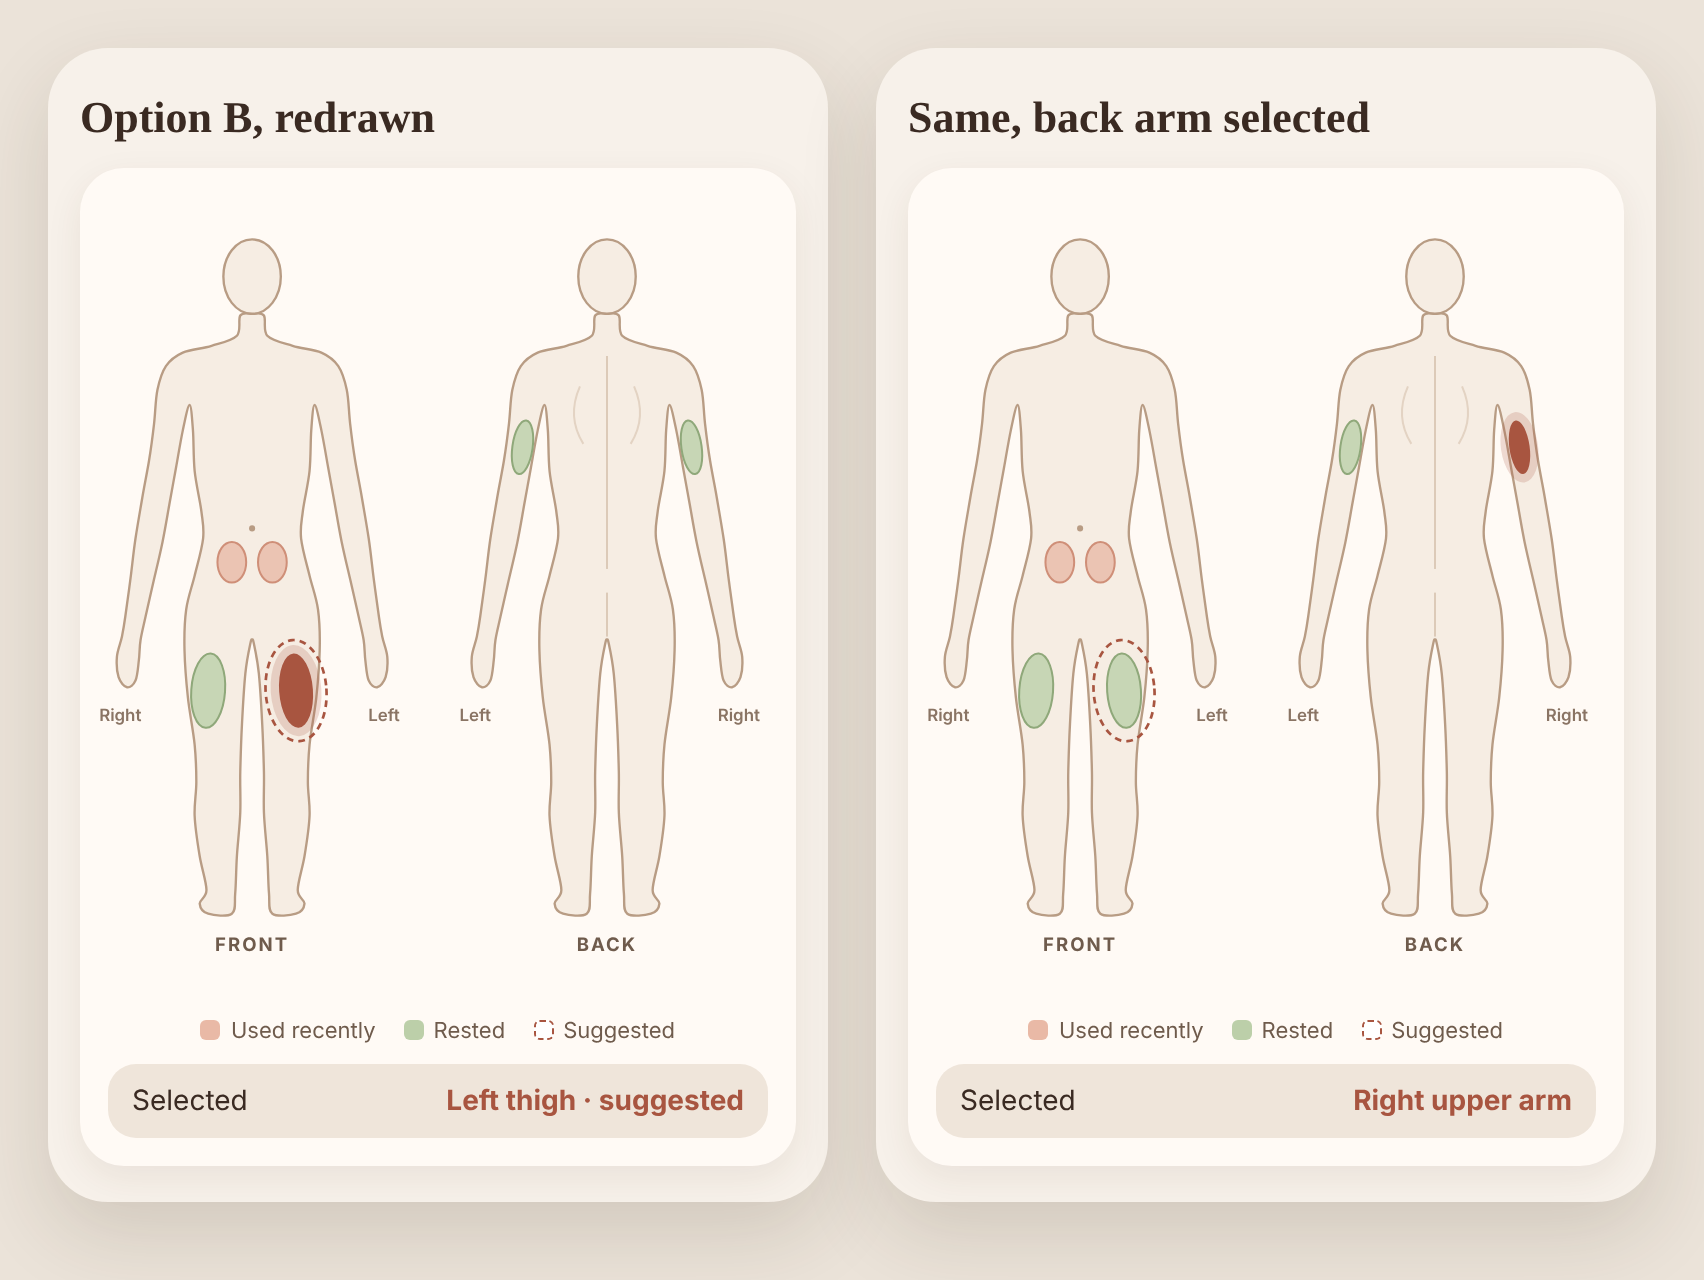
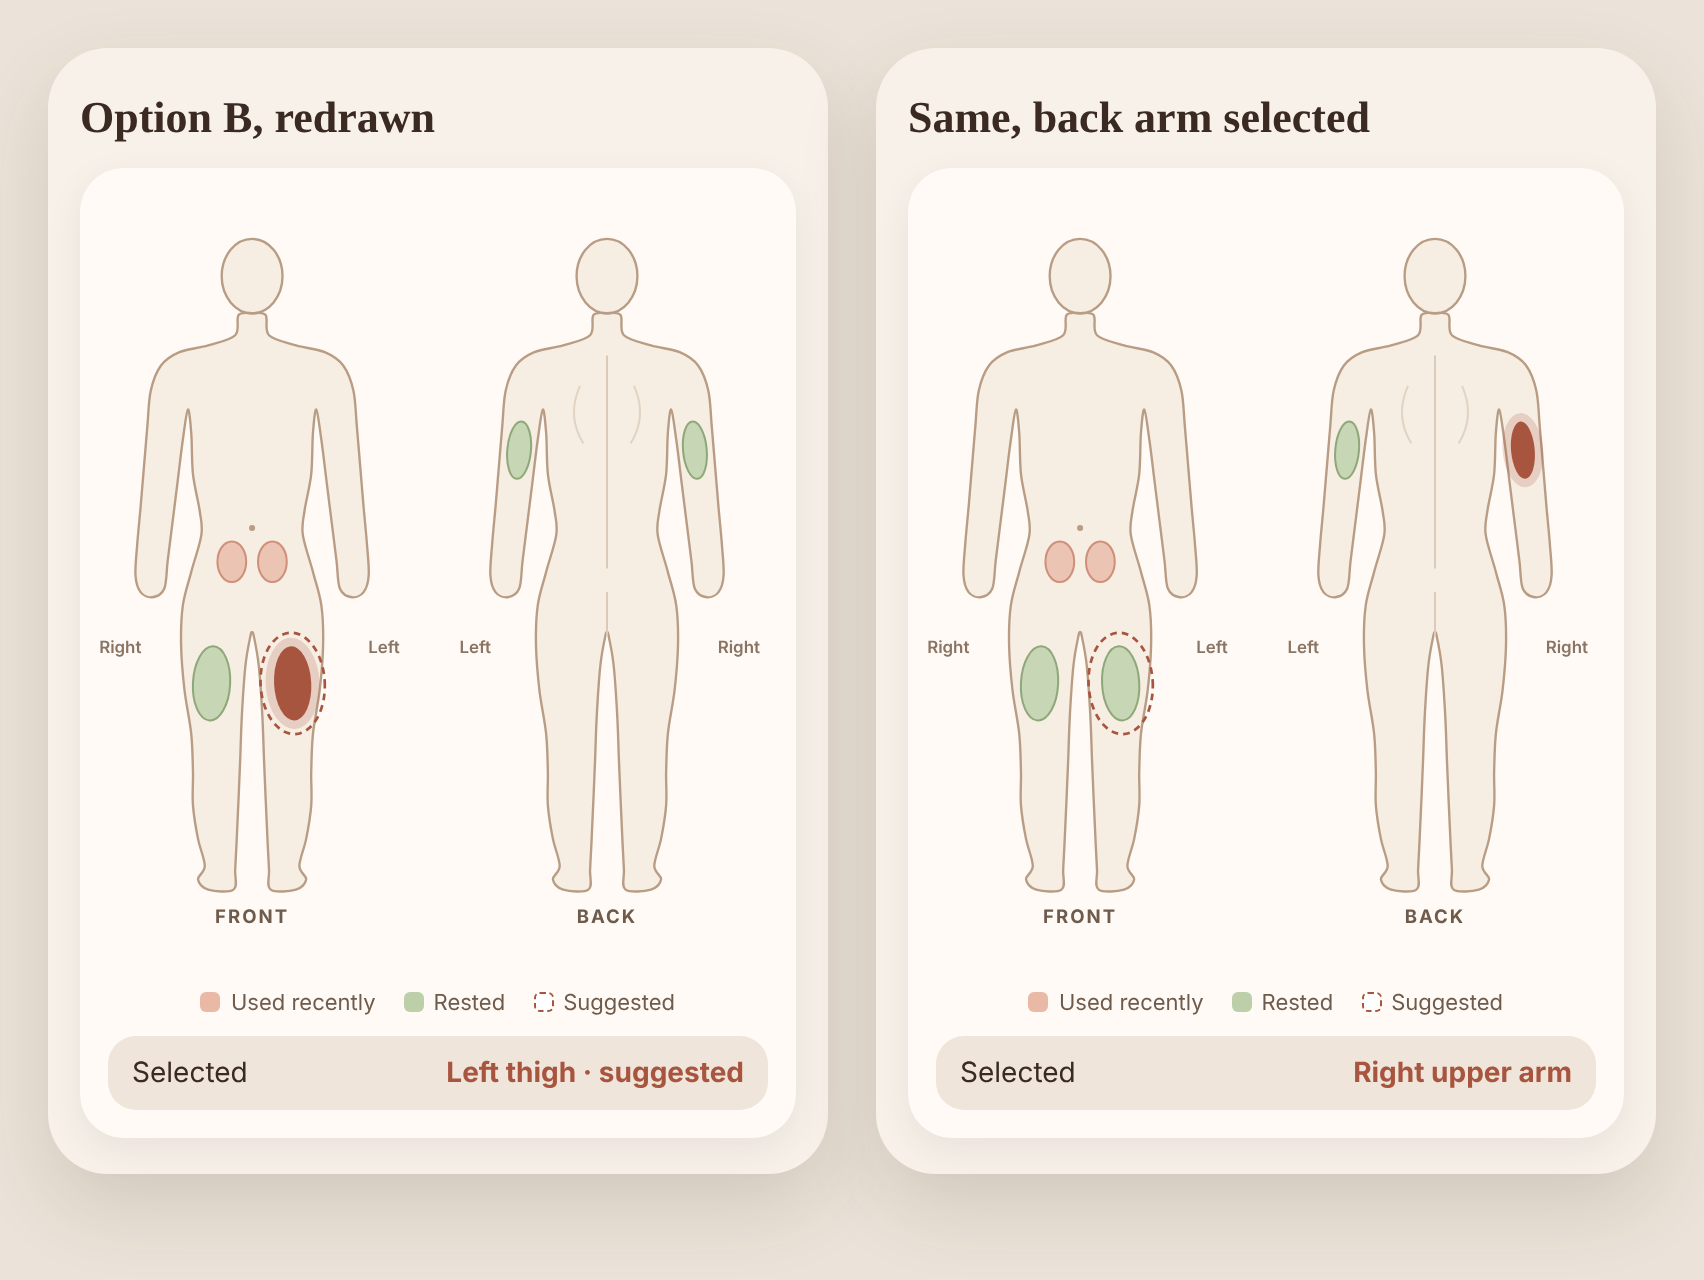
Body map mockup: remove wrists and hands, sturdier figure
Claude-Session: https://claude.ai/code/session_01E8m8svjFKtLT3zDarJmxVH

diff --git a/docs/mockups/02b-body-map-option-b-v2.html b/docs/mockups/02b-body-map-option-b-v2.html
@@ -16,7 +16,7 @@ h3{font-family:var(--head);font-size:22px;margin:4px 0 12px;font-weight:600}
  <div class="sel">Selected <b>Right upper arm</b></div></div></div>
 <script>
 // Right half of the figure (viewer's right), from the neck clockwise; 8-head proportions, arms slightly out (A-pose).
-const R=[[100,49],[107,50],[109,62],[124,68],[141,72],[151,80],[156,94],[158,114],[161,136],[165,158],[169,182],[172,206],[175,228],[177,240],[180,252],[179,264],[174,270],[169,266],[167,254],[166,242],[163,228],[158,206],[153,184],[149,162],[145,140],[141,118],[137,103],[135,118],[134,142],[130,166],[129,182],[134,204],[139,224],[140,248],[138,276],[134,304],[133,326],[134,346],[131,370],[127,390],[131,398],[126,404],[112,404],[110,392],[109,370],[107,344],[107,320],[106,292],[104,262],[101,244],[100,242]];
+const R=[[100,49],[108,50],[110,62],[126,68],[143,72],[154,80],[160,95],[162,116],[164,140],[166,164],[168,186],[169,204],[166,214],[159,217],[152,212],[150,196],[147,172],[144,148],[141,124],[138,106],[136,120],[135,144],[131,166],[130,180],[136,202],[141,222],[142,246],[140,272],[136,298],[135,320],[135,340],[132,360],[128,376],[132,384],[126,390],[111,390],[110,378],[109,358],[108,336],[107,312],[106,286],[104,258],[101,240],[100,238]];
 const OUT=[...R,...R.slice(1,-1).reverse().map(([x,y])=>[200-x,y])];
 function smooth(p){const n=p.length;let d=`M${p[0][0]},${p[0][1]}`;for(let i=0;i<n;i++){const a=p[(i-1+n)%n],b=p[i],c=p[(i+1)%n],e=p[(i+2)%n];d+=` C${(b[0]+(c[0]-a[0])/6).toFixed(1)},${(b[1]+(c[1]-a[1])/6).toFixed(1)} ${(c[0]-(e[0]-b[0])/6).toFixed(1)},${(c[1]-(e[1]-b[1])/6).toFixed(1)} ${c[0]},${c[1]}`}return d+'Z'}
 const COL={recent:['#e9b9a6','#cf8f78'],ready:['#bccfa9','#8fa87a']};
@@ -29,18 +29,18 @@ function zone(z){const [cx,cy,rx,ry,rot=0]=z.g;const t=`transform="rotate(${rot}
 function figure(x0,back,zones){
  let h=`<g transform="translate(${x0} 0)">`;
  h+=`<path d="${smooth(OUT)}" fill="${FILL}" stroke="${STROKE}" stroke-width="1.4" stroke-linejoin="round"/>`;
- h+=`<ellipse cx="100" cy="27" rx="17" ry="22" fill="${FILL}" stroke="${STROKE}" stroke-width="1.4"/>`;
+ h+=`<ellipse cx="100" cy="27" rx="18" ry="22" fill="${FILL}" stroke="${STROKE}" stroke-width="1.4"/>`;
  if(!back){h+=`<circle cx="100" cy="176" r="1.8" fill="${STROKE}"/>`;}
  else{h+=`<path d="M100 74 V200" stroke="#dccab8" stroke-width="1.2"/><path d="M84 92 q-8 18 2 34 M116 92 q8 18 -2 34" fill="none" stroke="#e3d3c3" stroke-width="1.2"/><path d="M100 214 V240" stroke="#dccab8" stroke-width="1.2"/>`;}
  return h+zones.map(zone).join('')+'</g>'}
 const T='font-size="11" font-weight="700" letter-spacing="1.2" fill="#6f5b4c"', t2='font-size="10" font-weight="600" fill="#8a7464"';
 function draw(id,states){
- const s=document.getElementById(id);s.setAttribute('viewBox','10 0 400 432');
- s.innerHTML=figure(0,false,[{g:[88,196,8.5,12],state:states.br},{g:[112,196,8.5,12],state:states.bl},{g:[74,272,10,22,4],state:states.tr},{g:[126,272,10,22,-4],state:states.tl,sug:states.sug==='tl'}])
- +figure(210,true,[{g:[50,128,6,16,8],state:states.al},{g:[150,128,6,16,-8],state:states.ar}])
- +`<text x="100" y="426" text-anchor="middle" ${T}>FRONT</text><text x="310" y="426" text-anchor="middle" ${T}>BACK</text>`
- +`<text x="22" y="290" text-anchor="middle" ${t2}>Right</text><text x="178" y="290" text-anchor="middle" ${t2}>Left</text><text x="232" y="290" text-anchor="middle" ${t2}>Left</text><text x="388" y="290" text-anchor="middle" ${t2}>Right</text>`;
- s.setAttribute('height','400')}
+ const s=document.getElementById(id);s.setAttribute('viewBox','10 0 400 416');
+ s.innerHTML=figure(0,false,[{g:[88,196,8.5,12],state:states.br},{g:[112,196,8.5,12],state:states.bl},{g:[76,268,11,22,3],state:states.tr},{g:[124,268,11,22,-3],state:states.tl,sug:states.sug==='tl'}])
+ +figure(210,true,[{g:[48,130,7,17,5],state:states.al},{g:[152,130,7,17,-5],state:states.ar}])
+ +`<text x="100" y="410" text-anchor="middle" ${T}>FRONT</text><text x="310" y="410" text-anchor="middle" ${T}>BACK</text>`
+ +`<text x="22" y="250" text-anchor="middle" ${t2}>Right</text><text x="178" y="250" text-anchor="middle" ${t2}>Left</text><text x="232" y="250" text-anchor="middle" ${t2}>Left</text><text x="388" y="250" text-anchor="middle" ${t2}>Right</text>`;
+ s.setAttribute('height','386')}
 draw('b',{br:'recent',bl:'recent',tr:'ready',tl:'on',sug:'tl',al:'ready',ar:'ready'});
 draw('c',{br:'recent',bl:'recent',tr:'ready',tl:'ready',sug:'tl',al:'ready',ar:'on'});
 </script></body></html>

diff --git a/docs/workflows/02b-injection-design-and-photos.md b/docs/workflows/02b-injection-design-and-photos.md
@@ -16,7 +16,7 @@ Owner request: "Clean up the body mapping. I want it to look sleek. Yours looks 
 
 ## In scope
 - **Body map** (`BodyMap.tsx`) — Option B, redrawn:
-  - Two neutral figures, **Front** and **Back**, drawn with natural 8-head proportions: rounded shoulders, arms slightly away from the body with elbows and wrists, defined waist and hips, tapered legs. Thin warm outline, soft sand fill.
+  - Two neutral figures, **Front** and **Back**: sturdy, friendly proportions with rounded shoulders, arms slightly away from the body ending in soft rounded ends at hip height (no wrists or hands — owner request), defined waist and hips, tapered legs. Thin warm outline, soft sand fill.
   - Sites where the Wegovy guides place them: lower abdomen either side of the navel and front-outer thighs on the Front figure; back of the upper arms on the Back figure.
   - Each site is colored by recency: **used recently** (within 2 weeks, light terracotta) or **rested** (light sage); the selected site is solid terracotta with a soft glow; the suggested site has a dashed ring.
   - "Right"/"Left" labels beside each figure (on the Back figure the person's left is on the viewer's left), plus a legend and a "Selected: …" line. The accessible button list stays below as compact chips (44px tall).
